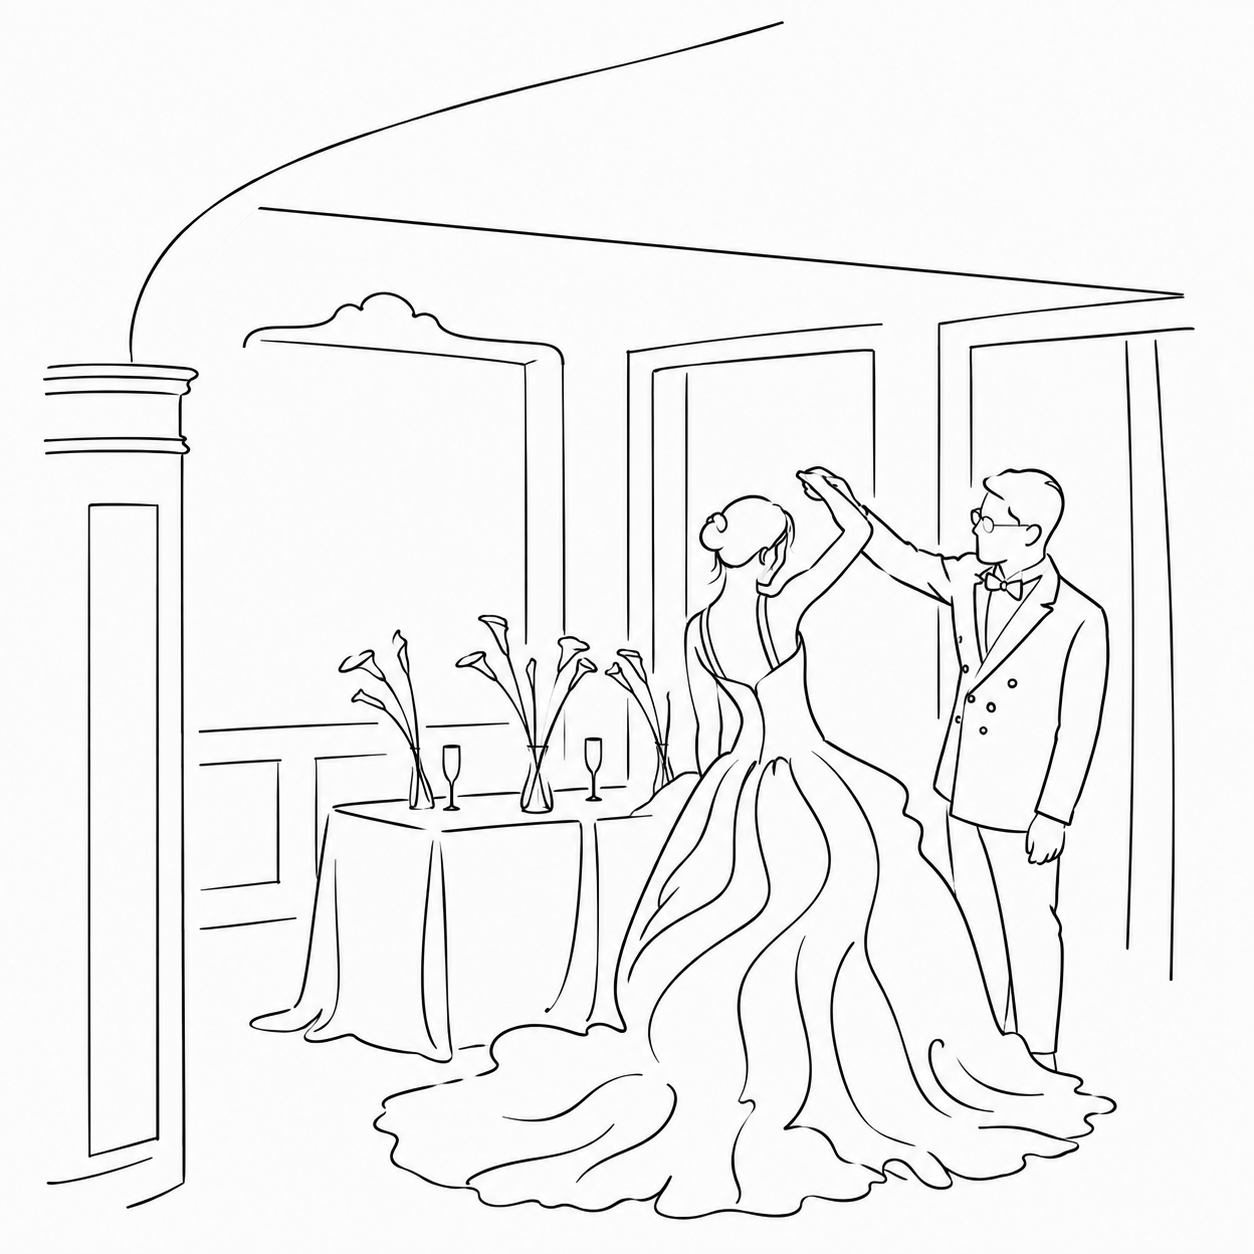
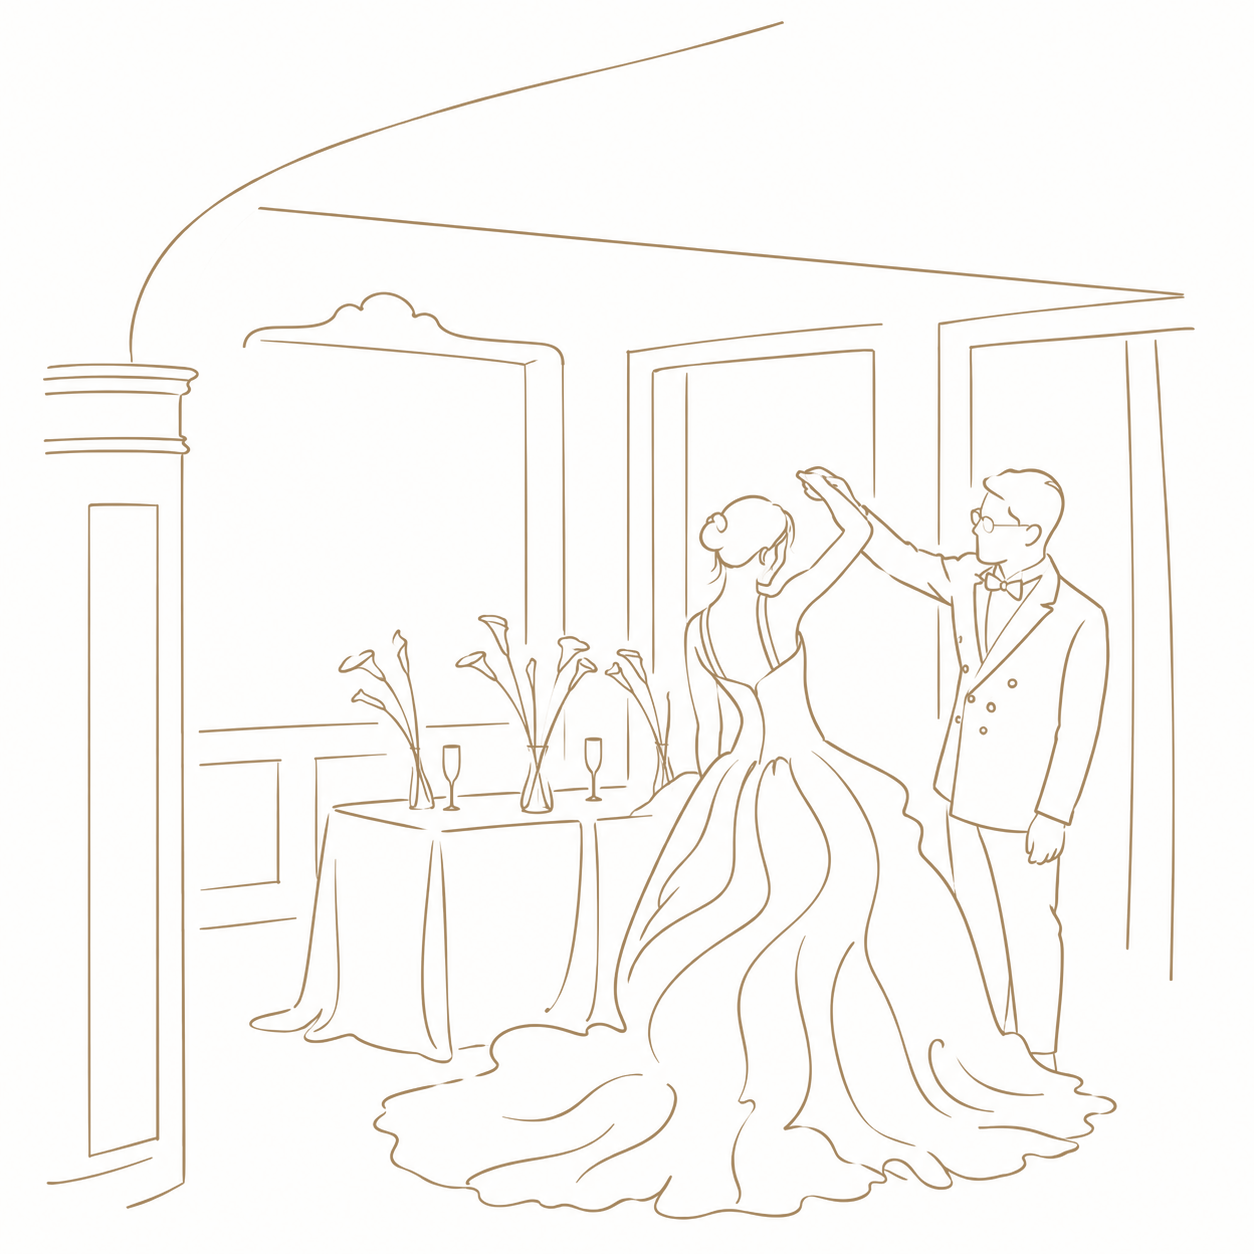
Fix confetti not firing, add gold recolor and crossing layout for illustrations
The confetti-layer div was declared after the closing </script> tag,
so document.getElementById('confetti-layer') resolved to null when
the script ran and launchConfetti() silently no-op'd. Move the div
before the script. Also fix reveal() only being checked on mousemove
(never on mousedown), which could leave a mostly-scratched card stuck
unrevealed.

Recolor all line-art illustrations from black to gold (alpha-masked,
transparent background) instead of relying on mix-blend-mode. Add
three more illustrations found unnamed in the folder (sprig, peony
stem, rose) and the previously-unused couple-dance scene, positioning
them as crossing left/right pairs per section instead of centered.

diff --git a/index.html b/index.html
@@ -212,30 +212,39 @@
   .bg-illus{
     position: absolute;
     z-index: -1;
-    opacity: 0.1;
-    mix-blend-mode: multiply;
+    opacity: 0.4;
     pointer-events: none;
     user-select: none;
   }
   .section-divider{
-    max-width: 300px;
-    margin: 0 auto;
-    opacity: 0.14;
-    mix-blend-mode: multiply;
+    max-width: 260px;
+    margin: 0 auto 0 8%;
+    opacity: 0.55;
   }
   .section-divider img{ width: 100%; display: block; }
-  .hero .bg-illus{
-    top: 4px;
-    left: 50%;
-    transform: translateX(-50%);
-    width: 260px;
-    max-width: 58vw;
+  .hero .bg-illus.is-left{
+    top: 10px;
+    left: -10px;
+    width: 210px;
+    max-width: 50vw;
   }
-  .family .bg-illus{
-    right: -10px;
-    bottom: -10px;
-    width: 220px;
-    max-width: 46vw;
+  .hero .bg-illus.is-right{
+    top: 40px;
+    right: -20px;
+    width: 150px;
+    max-width: 38vw;
+  }
+  .family .bg-illus.is-right{
+    right: -20px;
+    bottom: 0;
+    width: 150px;
+    max-width: 34vw;
+  }
+  .family .bg-illus.is-left{
+    left: -10px;
+    top: 30px;
+    width: 160px;
+    max-width: 40vw;
   }
   .venue .bg-illus{
     top: -20px;
@@ -243,27 +252,39 @@
     transform: translateX(-50%);
     width: 480px;
     max-width: 90vw;
+    opacity: 0.22;
   }
-  .schedule .bg-illus{
-    left: 50%;
-    bottom: 10px;
-    transform: translateX(-50%);
-    width: 360px;
-    max-width: 80vw;
+  .schedule .bg-illus.is-right{
+    right: -10px;
+    bottom: 4px;
+    width: 200px;
+    max-width: 46vw;
+  }
+  .schedule .bg-illus.is-left{
+    left: -20px;
+    top: 20px;
+    width: 190px;
+    max-width: 44vw;
+    opacity: 0.25;
   }
   .rsvp .bg-illus{
     top: 0;
-    left: 50%;
-    transform: translateX(-50%);
-    width: 300px;
-    max-width: 70vw;
-  }
-  footer .bg-illus{
-    top: -16px;
-    left: 50%;
-    transform: translateX(-50%);
-    width: 200px;
+    left: -10px;
+    width: 230px;
     max-width: 55vw;
+  }
+  footer .bg-illus.is-right{
+    top: 4px;
+    right: 12px;
+    width: 150px;
+    max-width: 36vw;
+    opacity: 0.5;
+  }
+  footer .bg-illus.is-left{
+    top: 30px;
+    left: 8px;
+    width: 150px;
+    max-width: 38vw;
   }
 
   /* ---------- HERO ---------- */
@@ -890,7 +911,8 @@
   </div>
 
   <section class="hero">
-    <img class="bg-illus" src="images/illus-doves-heart.png" alt="" aria-hidden="true">
+    <img class="bg-illus is-left" src="images/illus-doves-heart.png" alt="" aria-hidden="true">
+    <img class="bg-illus is-right" src="images/illus-sprig.png" alt="" aria-hidden="true">
     <div class="frame reveal" id="hero-frame">
       <img src="images/hero.jpg" alt="薛舜中 與 陳永馨">
     </div>
@@ -933,7 +955,8 @@
       </div>
     </div>
     <img class="family-photo reveal" src="images/m-studio-dance.jpg" alt="新人合影">
-    <img class="bg-illus" src="images/illus-bouquet.png" alt="" aria-hidden="true">
+    <img class="bg-illus is-right" src="images/illus-bouquet.png" alt="" aria-hidden="true">
+    <img class="bg-illus is-left" src="images/illus-peony-stem.png" alt="" aria-hidden="true">
   </section>
 
   <div class="section-divider"><img src="images/illus-heart-vine-divider.png" alt="" aria-hidden="true"></div>
@@ -987,7 +1010,8 @@
       <a id="cal-google" class="cal-btn" target="_blank" rel="noopener">+ Google 日曆</a>
       <a id="cal-ics" class="cal-btn">+ Apple / Outlook</a>
     </div>
-    <img class="bg-illus" src="images/illus-champagne-tower.png" alt="" aria-hidden="true">
+    <img class="bg-illus is-right" src="images/illus-champagne-tower.png" alt="" aria-hidden="true">
+    <img class="bg-illus is-left" src="images/illus-couple-dance.png" alt="" aria-hidden="true">
   </section>
 
   <section class="rsvp">
@@ -1026,12 +1050,15 @@
   </dialog>
 
   <footer>
-    <img class="bg-illus" src="images/illus-cherub.png" alt="" aria-hidden="true">
+    <img class="bg-illus is-right" src="images/illus-cherub.png" alt="" aria-hidden="true">
+    <img class="bg-illus is-left" src="images/illus-rose.png" alt="" aria-hidden="true">
     <img src="images/m-rings.jpg" alt="戒指">
     <p class="thanks">感謝您撥冗參與，見證我們人生中最重要的時刻</p>
     <p class="names">薛舜中　＆　陳永馨</p>
     <p class="credit">Designed by <a href="https://ux-circles.com/web" target="_blank" rel="noopener">UX CIRCLES</a></p>
   </footer>
+
+  <div class="confetti-layer" id="confetti-layer"></div>
 
 <script src="https://unpkg.com/leaflet@1.9.4/dist/leaflet.js"></script>
 <script>
@@ -1524,6 +1551,5 @@
     });
   })();
 </script>
-<div class="confetti-layer" id="confetti-layer"></div>
 </body>
 </html>
